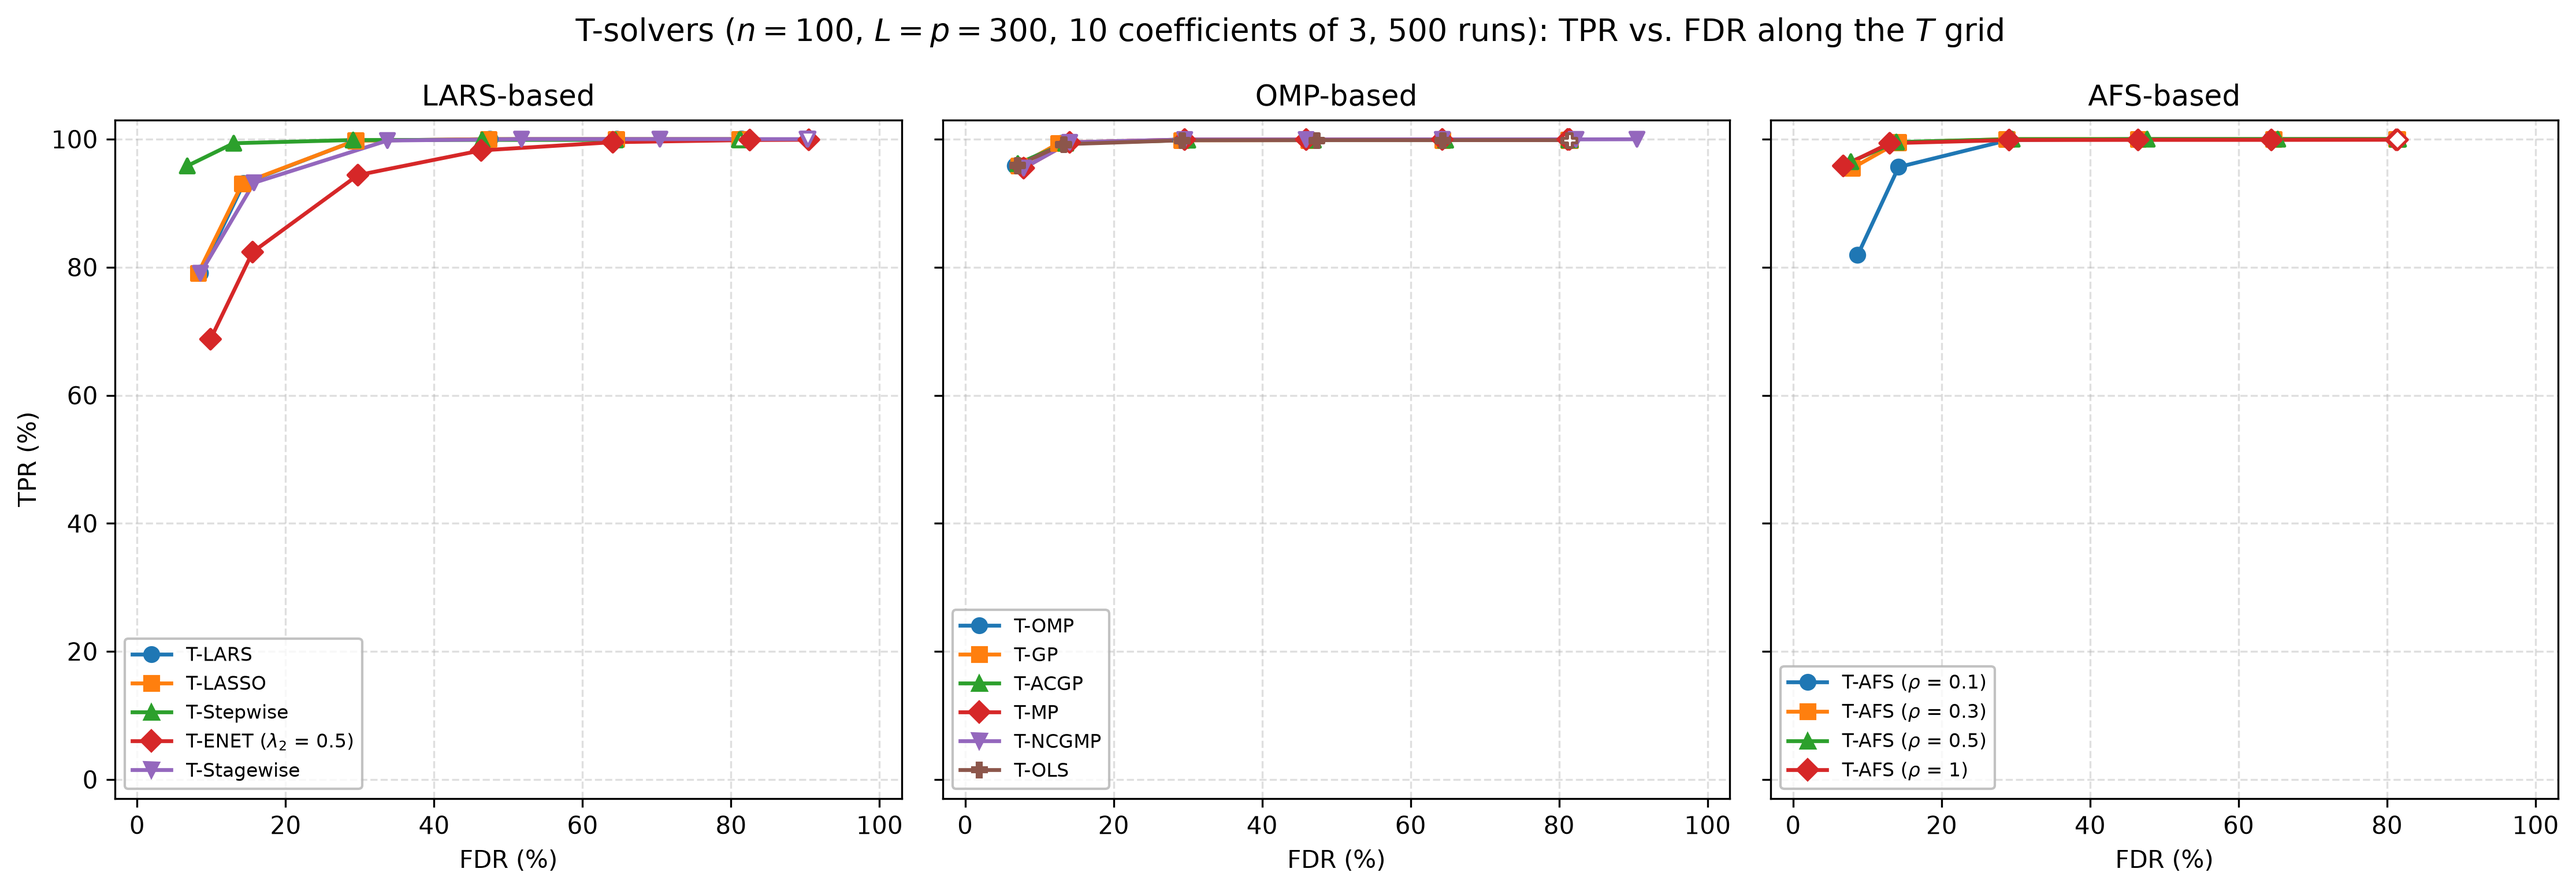
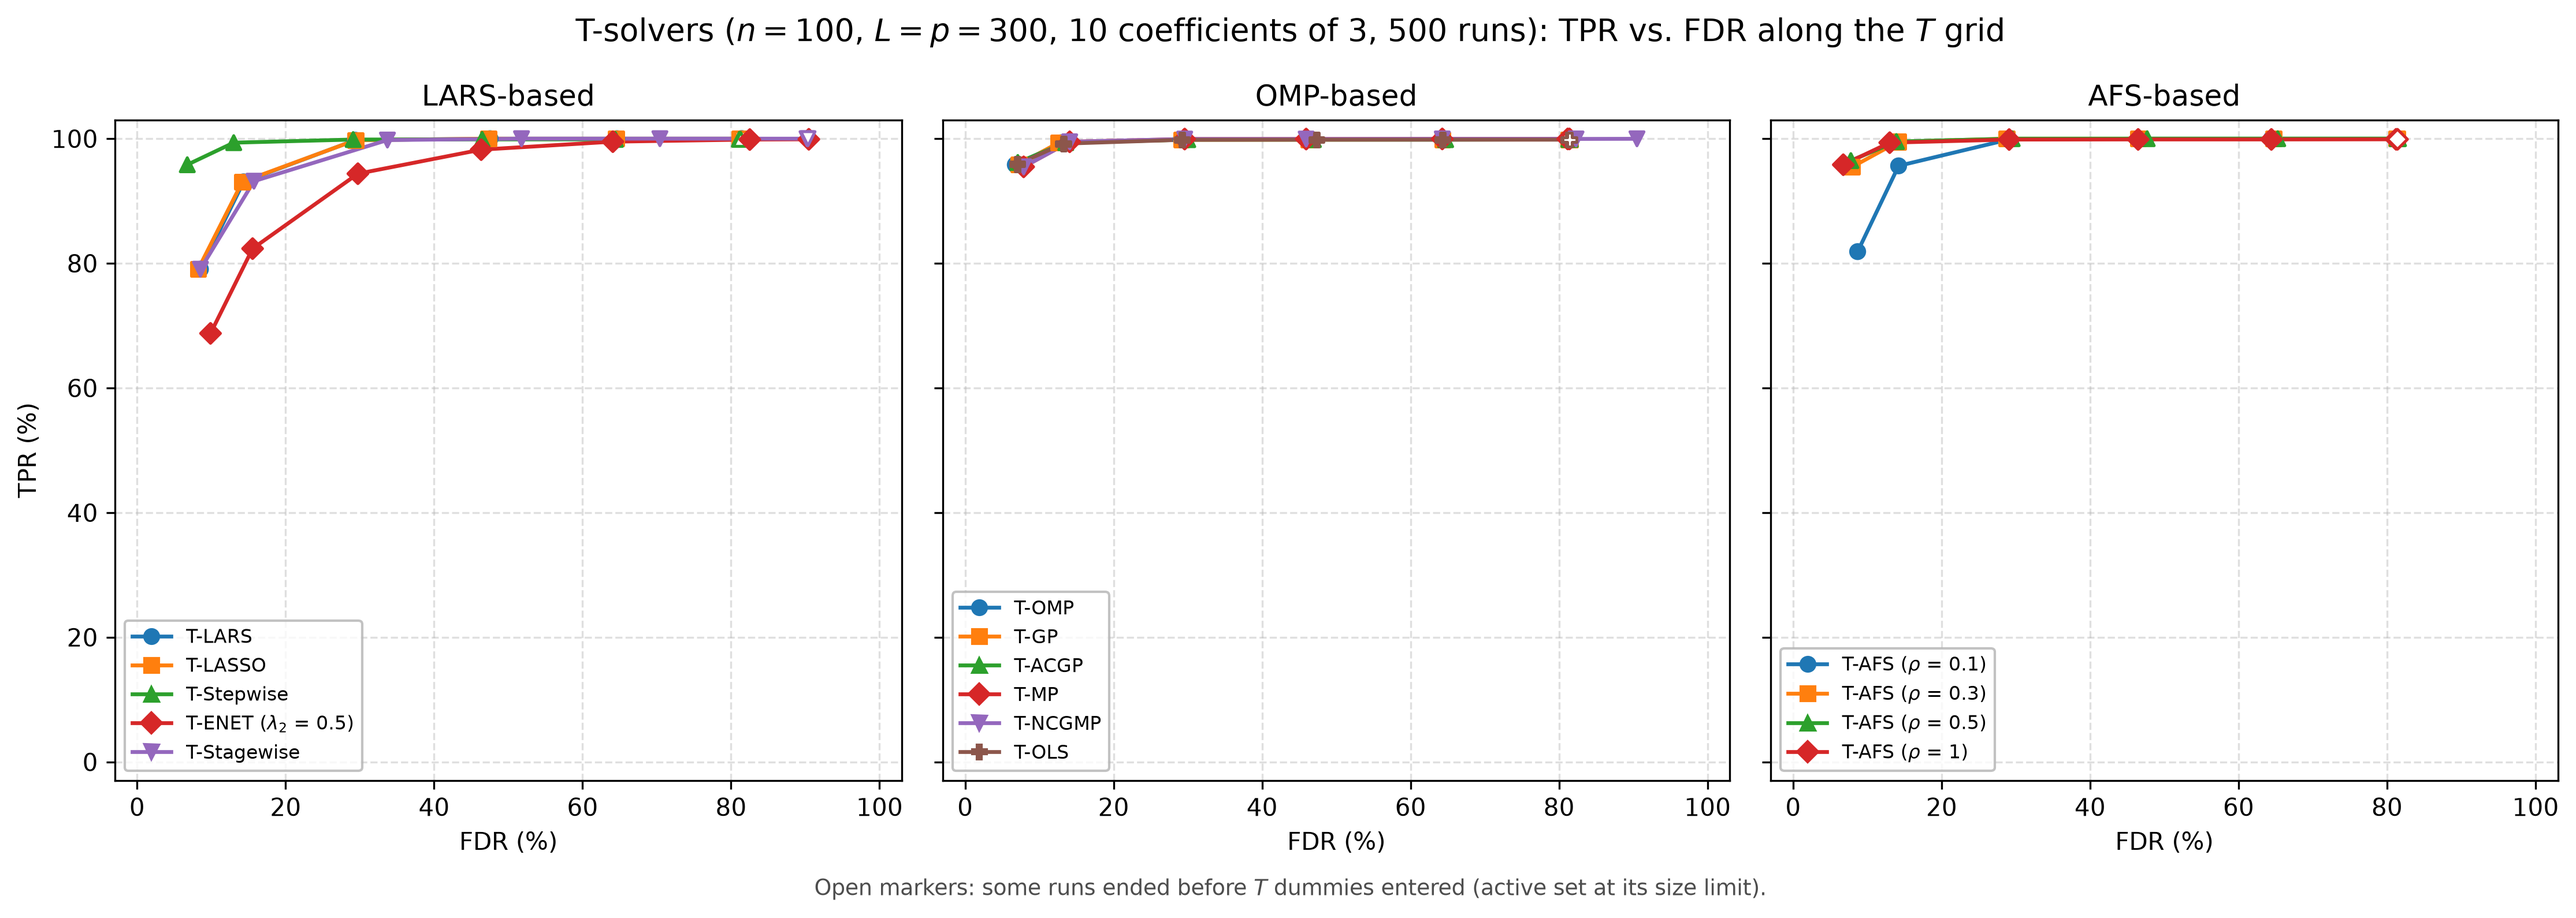
cpp: demo_ts_perf_01 TPR-vs-FDR figure gets the open-marker note
The note that open markers stand for runs ending before T dummies entered was missing below the TPR-vs-FDR figure. All three figures now draw it through one helper in ts_plt_utils.py, and the other two stay byte-identical.

Author: Fabian

diff --git a/cpp/tsolvers/ts_plt_utils.py b/cpp/tsolvers/ts_plt_utils.py
@@ -229,6 +229,13 @@ def _marker_legend(ax: plt.Axes, family_df: pd.DataFrame, styles: dict[str, tupl
               edgecolor="0.7")
 
 
+def _open_marker_note(fig: plt.Figure) -> None:
+    """Explain the open markers below the panels and lay out the figure around the note."""
+    fig.text(0.5, 0.005, "Open markers: some runs ended before $T$ dummies entered (active set at its size limit).",
+             ha="center", fontsize=9, color="0.3")
+    fig.tight_layout(rect=(0.0, 0.02, 1.0, 1.0))
+
+
 def plot_fdr_tpr_vs_T(df: pd.DataFrame, title: str) -> plt.Figure:
     """FDR (top row) and TPR (bottom row) in % vs. T, one column per solver family."""
     styles = _solver_styles(df)
@@ -257,9 +264,7 @@ def plot_fdr_tpr_vs_T(df: pd.DataFrame, title: str) -> plt.Figure:
     for col, family in enumerate(FAMILIES):
         _marker_legend(axes[1, col], df[df["family"] == family], styles)
     fig.suptitle(f"{title}: FDR and TPR vs. $T$", fontsize=13)
-    fig.text(0.5, 0.005, "Open markers: some runs ended before $T$ dummies entered (active set at its size limit).",
-             ha="center", fontsize=9, color="0.3")
-    fig.tight_layout(rect=(0.0, 0.02, 1.0, 1.0))
+    _open_marker_note(fig)
     return fig
 
 
@@ -284,7 +289,7 @@ def plot_tpr_vs_fdr(df: pd.DataFrame, title: str) -> plt.Figure:
     for col, family in enumerate(FAMILIES):
         _marker_legend(axes[0, col], df[df["family"] == family], styles)
     fig.suptitle(f"{title}: TPR vs. FDR along the $T$ grid", fontsize=13)
-    fig.tight_layout()
+    _open_marker_note(fig)
     return fig
 
 
@@ -348,9 +353,7 @@ def plot_path_stats(df: pd.DataFrame, title: str, n: int | None = None, p: int |
             axes[1, col].legend(handles=limit, loc="upper left", fontsize=8, frameon=True, facecolor="white",
                                 edgecolor="0.7")
     fig.suptitle(f"{title}: selected variables, steps and time vs. $T$", fontsize=13)
-    fig.text(0.5, 0.005, "Open markers: some runs ended before $T$ dummies entered (active set at its size limit).",
-             ha="center", fontsize=9, color="0.3")
-    fig.tight_layout(rect=(0.0, 0.02, 1.0, 1.0))
+    _open_marker_note(fig)
     return fig
 
 
